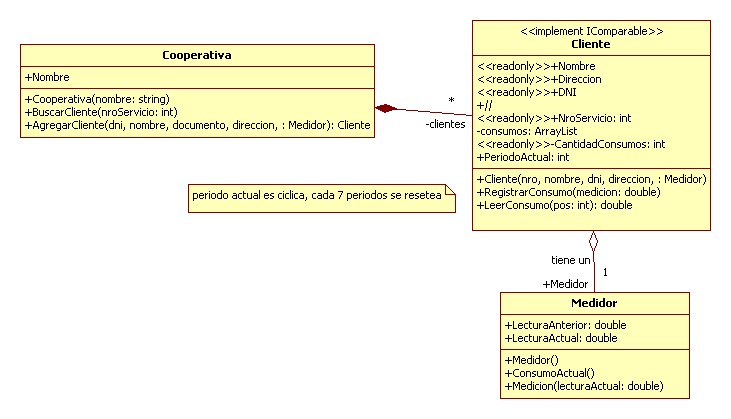
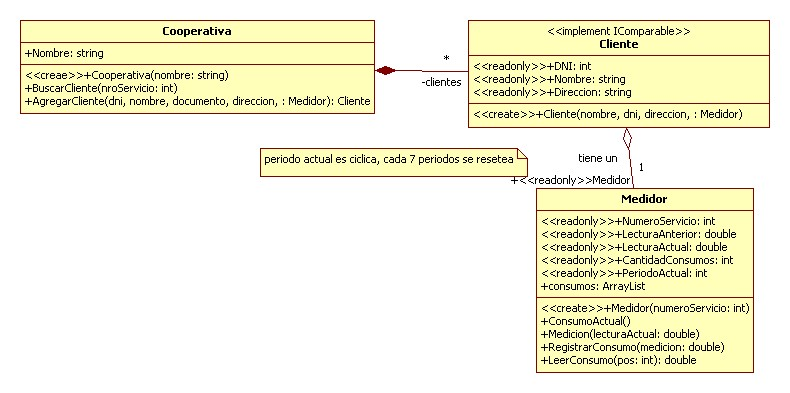
.

Changed region(s): [[0.0, 0.0305, 0.9932, 0.9771]]

diff --git a/Guia4/Ejercicio1_cooperativa/FormPrincipal.cs b/Guia4/Ejercicio1_cooperativa/FormPrincipal.cs
@@ -54,7 +54,7 @@ namespace Ejercicio1
 
         private void btnAgregarCliente_Click(object sender, EventArgs e)
         {
-            FormCliente fCliente = new FormCliente();
+            FormDatosCliente fCliente = new FormDatosCliente();
 
             if (fCliente.ShowDialog() == DialogResult.OK)
             {
@@ -64,10 +64,10 @@ namespace Ejercicio1
                 int dni = Convert.ToInt32(fCliente.tbDNI.Text);
                 string direccion = fCliente.tbDireccion.Text;
 
-                Medidor medidor = new Medidor();
-                Cliente nuevo = cooperativa.AgregarCliente(servicio, dni, nombre, direccion, medidor);
+                Medidor medidor = new Medidor(servicio);
+                Cliente nuevo = cooperativa.AgregarCliente(dni, nombre, direccion, medidor);
 
-                MessageBox.Show($"Servicio nro: {nuevo.NroServicio}. Cliente nuevo!");
+                MessageBox.Show($"Servicio nro: {nuevo.Medidor.NumeroServicio}. Cliente nuevo!");
 
                 gbClientes.Enabled = true;
             }
@@ -81,25 +81,27 @@ namespace Ejercicio1
         private void btnRegistrarConsumo_Click(object sender, EventArgs e)
         {
             double medicionActual = Convert.ToDouble(tbLecturaMedidor.Text);
-            clienteSeleccion.RegistrarConsumo(medicionActual);
 
-            lbDescripcionPeriodo.Text = $"Último periodo: {clienteSeleccion.PeriodoActual}";
+
+            clienteSeleccion.Medidor.RegistrarConsumo(medicionActual);
+
+            lbDescripcionPeriodo.Text = $"Último periodo: {clienteSeleccion.Medidor.PeriodoActual}";
 
             tbLecturaMedidor.Clear();
         }
 
         private void btnVerConsumo_Click(object sender, EventArgs e)
         {
-            FormResultados fResultado = new FormResultados();
+            FormVer fResultado = new FormVer();
             fResultado.lbResultados.Items.Clear();
             
-            fResultado.lbResultados.Items.Add(  $"Número de Servicio {clienteSeleccion.NroServicio,-10}");
+            fResultado.lbResultados.Items.Add(  $"Número de Servicio {clienteSeleccion.Medidor.NumeroServicio,-10}");
 
-            for (int n = 0; n < clienteSeleccion.CantidadConsumos; n++)
+            for (int n = 0; n < clienteSeleccion.Medidor.CantidadConsumos; n++)
             {
                 //imprimo el historico de este cliente
-                string consumo = clienteSeleccion.LeerConsumo(n).ToString("0.00");
-                int periodo=(n + clienteSeleccion.PeriodoActual) % 6;
+                string consumo = clienteSeleccion.Medidor.LeerConsumo(n).ToString("0.00");
+                int periodo=(n + clienteSeleccion.Medidor.PeriodoActual) % 6;
 
                 fResultado.lbResultados.Items.Add( $"{periodo,-10} {consumo,10}");
             }
@@ -108,7 +110,5 @@ namespace Ejercicio1
 
             fResultado.Dispose();
         }
-
-       
     }
 }

diff --git a/Guia4/Ejercicio1_cooperativa/Models/Cliente.cs b/Guia4/Ejercicio1_cooperativa/Models/Cliente.cs
@@ -6,38 +6,14 @@ using System.Collections;
 
     class Cliente : IComparable
     {
-        #region relativo al servicio
-        public int NroServicio { get; private set; }
-        private ArrayList consumos = new ArrayList();
-        public int CantidadConsumos { get { return consumos.Count; } }
-
-        /*al año son seies periodos, más uno para luego mostrar el mismo periodo del año anterior*/
-        private int periodoActual;
-        public int PeriodoActual
-        {
-            get { return periodoActual; }
-            private set
-            {
-                if (CantidadConsumos == 8)//hay varias formas de implementar esto
-                    consumos.RemoveAt(0);
-                periodoActual = value % 6;
-            }
-
-        }
-        public Medidor Medidor { get; set; }
-        #endregion fin servicio
-
-        #region relativo cliente
+        public Medidor Medidor { get; private set; }
+        
         public string Nombre { get; private set; }
         public int DNI { get; private set; }
         public string Direccion { get; private set; }
-        #endregion
-
-        public Cliente(int NroServicio,
-                            int dni, string nombre,
-                            string direccion, Medidor medidor)
+     
+        public Cliente(int dni, string nombre, string direccion, Medidor medidor)
         {
-            this.NroServicio = NroServicio;
             this.Nombre = nombre;
             this.DNI = dni;
             this.Direccion = direccion;
@@ -45,35 +21,21 @@ using System.Collections;
             this.Medidor = medidor;
         }
 
-        public void RegistrarConsumo(double medicion)
-        {
-            PeriodoActual++;
-            //Medidor.LecturaActual = medicion;//gracias al mecanismo readonly!
-            Medidor.Medicion(medicion);
-            consumos.Add(Medidor.ConsumoActual());            
-        }
-
         public int CompareTo(object obj)
         {
             int result = 1;
-            if (obj != null && obj is Cliente)
+            Cliente c=obj as Cliente;
+            if (c != null)
             {
-                Cliente obj1 = (Cliente)obj;
-                result = this.NroServicio.CompareTo(obj1.NroServicio);
+                result = this.Medidor.NumeroServicio.CompareTo(c.Medidor.NumeroServicio);
             }
             return result;
         }
 
         public override string ToString()
         {
-            return Nombre + "(" + DNI + ")";
+            return $"{Nombre}  ( {DNI} )";
         }
 
-        //métodos relativos al servicio
-
-        public double LeerConsumo(int pos)
-        {
-            return (double)consumos[pos];
-        }
     }
 }

diff --git a/Guia4/Ejercicio1_cooperativa/FormDatosCliente.Designer.cs b/Guia4/Ejercicio1_cooperativa/FormDatosCliente.Designer.cs
@@ -1,6 +1,6 @@
 namespace Ejercicio1
 {
-    partial class FormCliente
+    partial class FormDatosCliente
     {
         /// <summary>
         /// Variable del diseñador requerida.
@@ -43,7 +43,7 @@
             // label1
             // 
             this.label1.AutoSize = true;
-            this.label1.Location = new System.Drawing.Point(42, 66);
+            this.label1.Location = new System.Drawing.Point(82, 61);
             this.label1.Margin = new System.Windows.Forms.Padding(4, 0, 4, 0);
             this.label1.Name = "label1";
             this.label1.Size = new System.Drawing.Size(65, 20);
@@ -91,7 +91,7 @@
             // label2
             // 
             this.label2.AutoSize = true;
-            this.label2.Location = new System.Drawing.Point(42, 140);
+            this.label2.Location = new System.Drawing.Point(72, 138);
             this.label2.Margin = new System.Windows.Forms.Padding(4, 0, 4, 0);
             this.label2.Name = "label2";
             this.label2.Size = new System.Drawing.Size(75, 20);
@@ -109,7 +109,7 @@
             // label3
             // 
             this.label3.AutoSize = true;
-            this.label3.Location = new System.Drawing.Point(42, 106);
+            this.label3.Location = new System.Drawing.Point(110, 101);
             this.label3.Margin = new System.Windows.Forms.Padding(4, 0, 4, 0);
             this.label3.Name = "label3";
             this.label3.Size = new System.Drawing.Size(37, 20);
@@ -134,7 +134,7 @@
             this.label4.TabIndex = 16;
             this.label4.Text = "Número de servicio";
             // 
-            // FormCliente
+            // FormDatosCliente
             // 
             this.AutoScaleDimensions = new System.Drawing.SizeF(9F, 20F);
             this.AutoScaleMode = System.Windows.Forms.AutoScaleMode.Font;
@@ -152,7 +152,7 @@
             this.Font = new System.Drawing.Font("Microsoft Sans Serif", 12F, System.Drawing.FontStyle.Regular, System.Drawing.GraphicsUnit.Point, ((byte)(0)));
             this.FormBorderStyle = System.Windows.Forms.FormBorderStyle.FixedSingle;
             this.Margin = new System.Windows.Forms.Padding(4, 5, 4, 5);
-            this.Name = "FormCliente";
+            this.Name = "FormDatosCliente";
             this.StartPosition = System.Windows.Forms.FormStartPosition.CenterParent;
             this.Text = "Datos del cliente";
             this.ResumeLayout(false);

diff --git a/Guia4/Ejercicio1_cooperativa/Models/Cooperativa.cs b/Guia4/Ejercicio1_cooperativa/Models/Cooperativa.cs
@@ -5,6 +5,7 @@ namespace Ejercicio1.Models
 {
     class Cooperativa
     {
+        static int GEN_CLIENTE;
       public string Nombre{get; private set;}
       public ArrayList clientes =new ArrayList();
 
@@ -13,10 +14,10 @@ namespace Ejercicio1.Models
           Nombre = nombre;
       }
         
-      public Cliente AgregarCliente(int servicio, int dni, string nombre, 
-                      string direccion, Medidor medidor)
+      public Cliente AgregarCliente(int dni, string nombre, string direccion, Medidor medidor)
       {
-          Cliente nuevo = new Cliente(servicio, dni, nombre, direccion, medidor);
+            //Medidor= medidor.GEN_CLIENTE;
+          Cliente nuevo = new Cliente(dni, nombre, direccion, medidor);
           clientes.Add( nuevo) ;
           return nuevo;
       }
@@ -26,6 +27,7 @@ namespace Ejercicio1.Models
           Cliente buscado = null;
 
           clientes.Sort();
+
           //algoritmo de busqueda binaria
           int n = clientes.Count-1;
           int clave = nroServicio;
@@ -35,13 +37,13 @@ namespace Ejercicio1.Models
           {
               centro =(inf+sup)/2;
 
-              if (((Cliente)clientes[centro]).NroServicio == clave)
+              if (((Cliente)clientes[centro]).Medidor.NumeroServicio == clave)
               {
                   pos = centro;
               }
               else
               {
-                  if (clave > ((Cliente)clientes[centro]).NroServicio)
+                  if (clave > ((Cliente)clientes[centro]).Medidor.NumeroServicio)
                   {
                       inf = centro + 1;
                   }

diff --git a/Guia4/Ejercicio1_cooperativa/Models/Medidor.cs b/Guia4/Ejercicio1_cooperativa/Models/Medidor.cs
@@ -1,24 +1,56 @@
 
+using System.Collections;
+
 namespace Ejercicio1.Models
 {
     class Medidor
     {
+        public int NumeroServicio { get; private set; }
         public double LecturaAnterior { get; private set; }
         public double LecturaActual { get; private set; }
 
-        public Medidor()
+        private ArrayList consumos = new ArrayList();
+        public int CantidadConsumos { get { return consumos.Count; } }
+
+        private int periodoActual;
+        public int PeriodoActual
         {
+            get { return periodoActual; }
+            private set
+            {
+                if (CantidadConsumos == 8)//hay varias formas de implementar esto
+                    consumos.RemoveAt(0);
+                periodoActual = value % 6;
+            }
+
         }
 
+        public Medidor(int numeroServicio)
+        {
+            this.NumeroServicio = numeroServicio;
+        }
+               
         public double ConsumoActual()
         {
             return LecturaActual - LecturaAnterior;
         }
-
+             
         public void Medicion(double lectura)
         {
             LecturaAnterior = LecturaActual;
             LecturaActual = lectura;
+        }
+
+        public void RegistrarConsumo(double medicion)
+        {
+            PeriodoActual++;
+            LecturaActual = medicion;
+            consumos.Add(ConsumoActual());
+        }
+
+        public double LeerConsumo(int pos)
+        {
+            return (double)consumos[pos];
         }
     }
 }

diff --git a/Guia4/Ejercicio1_cooperativa/FormDatosCliente.cs b/Guia4/Ejercicio1_cooperativa/FormDatosCliente.cs
@@ -9,16 +9,11 @@ using System.Windows.Forms;
 
 namespace Ejercicio1
 {
-    public partial class FormResultados : Form
+    public partial class FormDatosCliente : Form
     {
-        public FormResultados()
+        public FormDatosCliente()
         {
             InitializeComponent();
-        }
-
-        private void btnPrueba_Click(object sender, EventArgs e)
-        {
-
         }
     }
 }

diff --git a/Guia4/Ejercicio1_cooperativa/FormVer.cs b/Guia4/Ejercicio1_cooperativa/FormVer.cs
@@ -9,11 +9,16 @@ using System.Windows.Forms;
 
 namespace Ejercicio1
 {
-    public partial class FormCliente : Form
+    public partial class FormVer : Form
     {
-        public FormCliente()
+        public FormVer()
         {
             InitializeComponent();
+        }
+
+        private void btnPrueba_Click(object sender, EventArgs e)
+        {
+
         }
     }
 }

diff --git a/Guia4/Ejercicio1_cooperativa/FormVer.Designer.cs b/Guia4/Ejercicio1_cooperativa/FormVer.Designer.cs
@@ -1,6 +1,6 @@
 namespace Ejercicio1
 {
-    partial class FormResultados
+    partial class FormVer
     {
         /// <summary>
         /// Variable del diseñador requerida.
